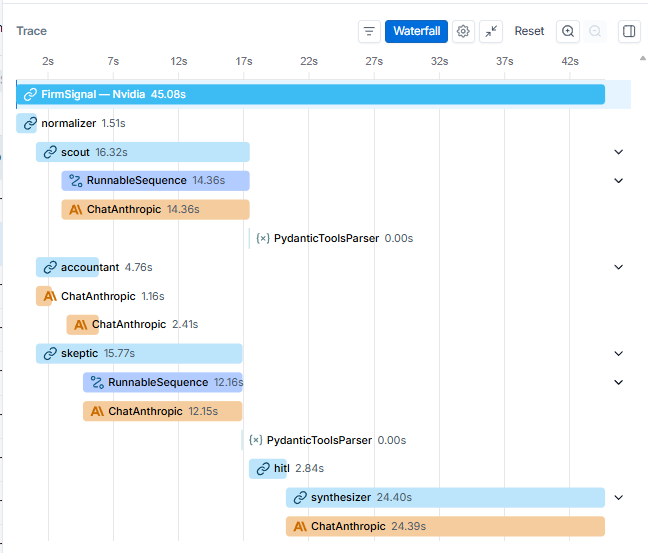
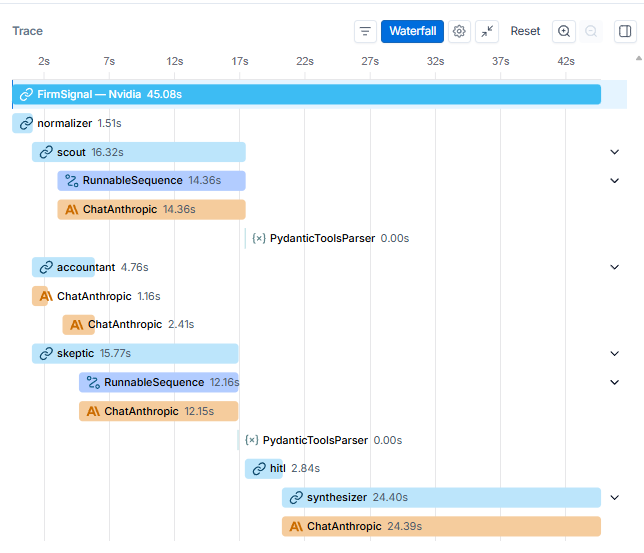
updated to README

diff --git a/README.md b/README.md
@@ -161,16 +161,6 @@ Automated eval suite across 10 gold standard companies using a two-layer approac
 ## Eval Results — April 2026 (parallel execution, 10 companies):
 
 
-| Metric | Score |
-|---|---|
-| Overall average | 87.6 / 100 |
-| Companies passing (≥70) | 10 / 10 |
-| Faithfulness (DeepEval) | 95% |
-| Answer Relevancy (DeepEval) | 89.8% |
-| Avg pipeline time | 57s |
-| Avg words per brief | 812 |
-| Avg citations used | 10.2 |
-
 | Summary metric | Sequential | Parallel | Change |
 |---|---|---|---|
 | Overall average | 87.6 / 100 | 89.0 / 100 | +1.4 |